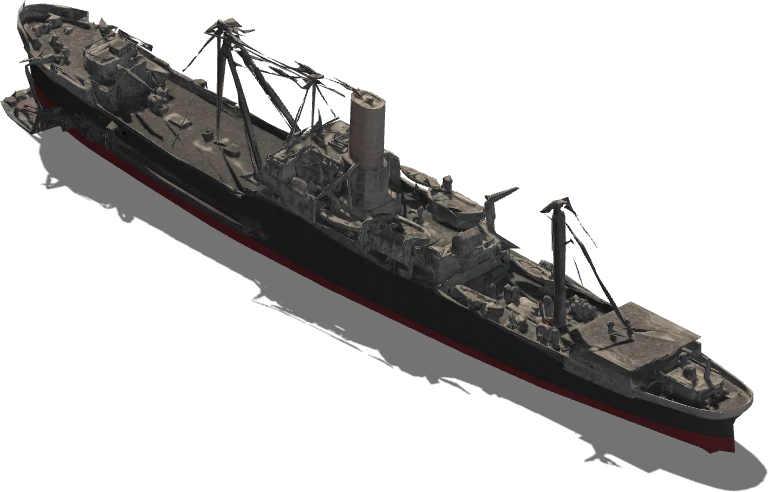
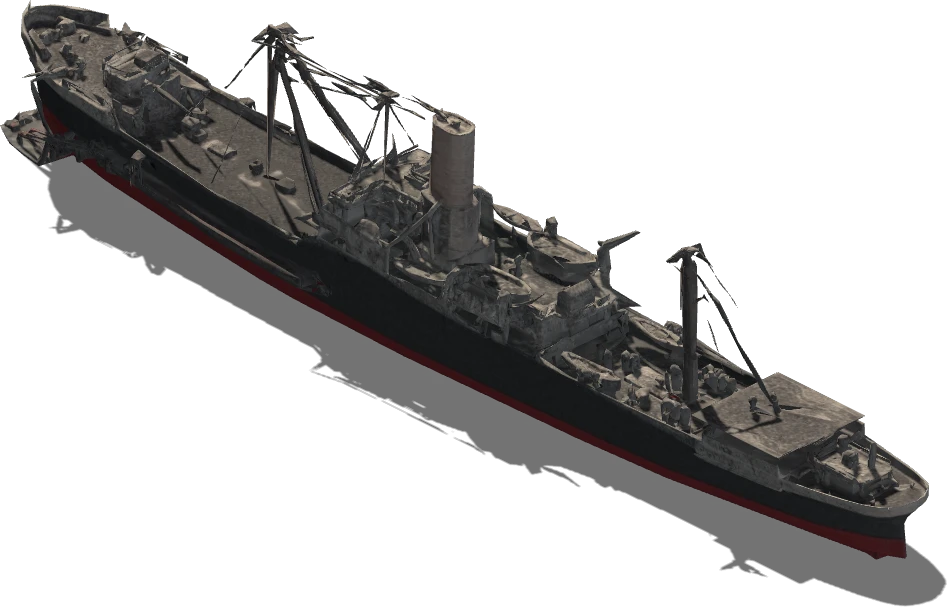
V Beach: the River Clyde 14 tiles long
Claude-Session: https://claude.ai/code/session_01QRLYjet5i3xPK5hPmw42NL

diff --git a/src/campaign.js b/src/campaign.js
@@ -830,11 +830,11 @@ export const LEVELS = [
       }
       noSquares(map);
       // ---- the River Clyde, run aground at the eastern end of the beach, her bow on the sand
-      const cy = M + 6, cx = coast(cy) + d * 5.4; // (a big ship: some 12 tiles long)
-      state.buildings = [{ img: 'assets/art/ship-river-clyde.webp', ax: 380, ay: 275, k: 0.5, x: cx + 0.5, y: cy + 0.5, hx: 5.5, hy: 0.85, name: 'The River Clyde' }];
-      for (const t of map.tiles) if (Math.abs(t.x + 0.5 - state.buildings[0].x) <= 5.5 && Math.abs(t.y + 0.5 - state.buildings[0].y) <= 0.85) { t.block = 1; t.wire = 0; }
+      const cy = M + 5, cx = coast(cy) + d * 6.8; // (a big ship: 14 tiles long)
+      state.buildings = [{ img: 'assets/art/ship-river-clyde.webp', ax: 468, ay: 339, k: 0.5, x: cx + 0.5, y: cy + 0.5, hx: 6.9, hy: 1.0, name: 'The River Clyde' }];
+      for (const t of map.tiles) if (Math.abs(t.x + 0.5 - state.buildings[0].x) <= 6.9 && Math.abs(t.y + 0.5 - state.buildings[0].y) <= 1.0) { t.block = 1; t.wire = 0; }
       // the enemy's 'headquarters' is the ship: his men come out of her sally ports (it cannot be taken)
-      map.hq[ENEMY] = { x: Math.floor(cx - d * 3), y: cy - 2, hidden: true };
+      map.hq[ENEMY] = { x: Math.floor(cx - d * 4), y: cy - 2, hidden: true };
       state.wrecks = [];
       state.arriving = { [ENEMY]: true }; // he lands all day: never 'broken' (the level ends at nightfall)
       map.rocks = true;

diff --git a/index.html b/index.html
@@ -12,7 +12,7 @@
       "./src/ai.js": "./src/ai.js?v=3dae52f0",
       "./src/atmosphere.js": "./src/atmosphere.js?v=ce847001",
       "./src/audio.js": "./src/audio.js?v=785b89d0",
-      "./src/campaign.js": "./src/campaign.js?v=3d305c93",
+      "./src/campaign.js": "./src/campaign.js?v=bc6b921b",
       "./src/config.js": "./src/config.js?v=82ca61d3",
       "./src/game.js": "./src/game.js?v=586d0759",
       "./src/main.js": "./src/main.js?v=df11508a",

diff --git a/tools/render-glb/README.md b/tools/render-glb/README.md
@@ -30,4 +30,4 @@ battle 1 in `src/campaign.js`), whose tiles inside the footprint are then made i
 
 | sprite | model | command options |
 | --- | --- | --- |
-| `ship-river-clyde.webp` | Harbor Steamship (the River Clyde) | `--yaw 1.5708 --scale 6` |
+| `ship-river-clyde.webp` | Harbor Steamship (the River Clyde) | `--yaw 1.5708 --scale 7.4` |
